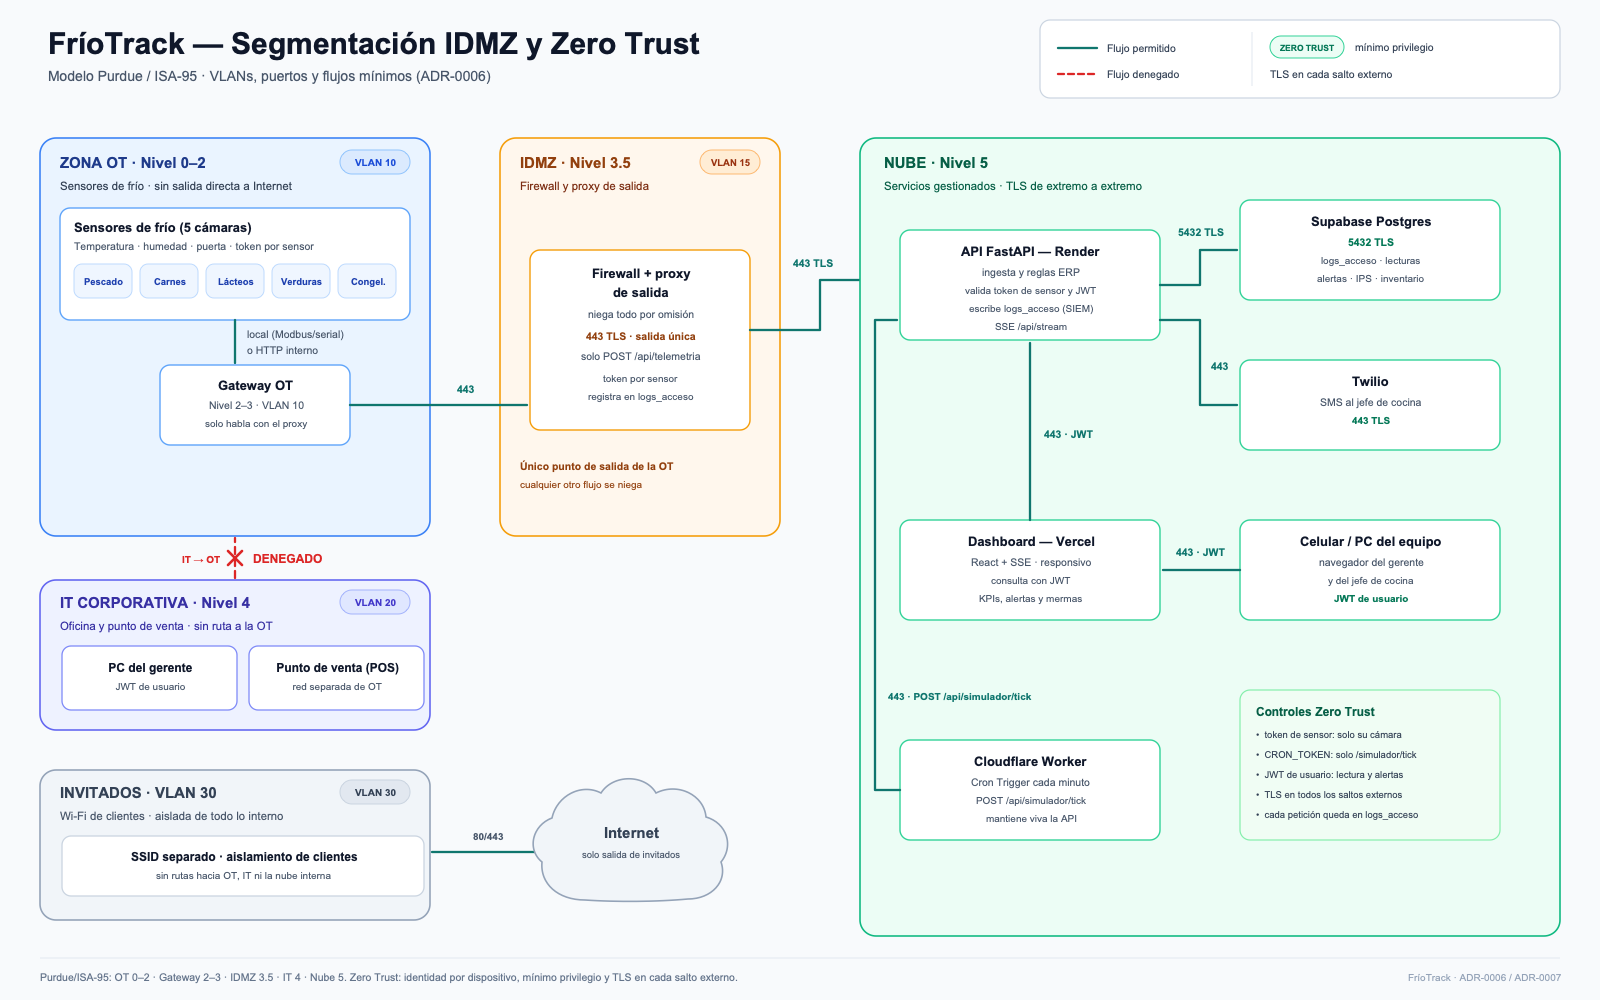
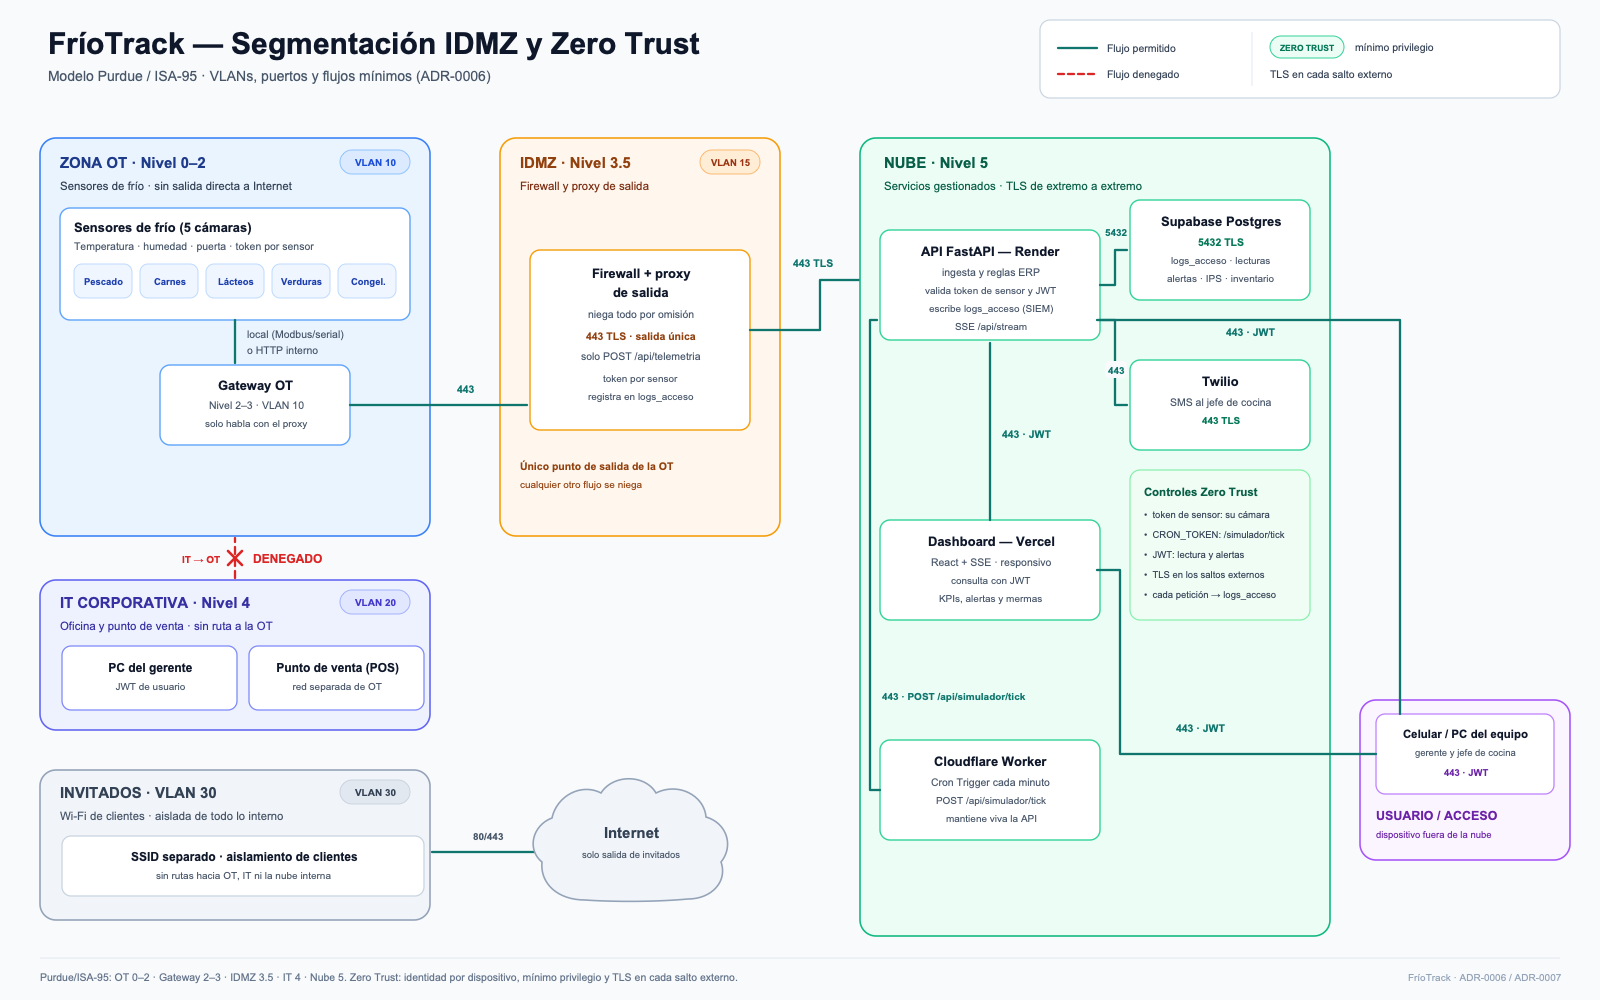
docs(security): ajustar zona de usuario y estado de auth

Changed region(s): [[0.5312, 0.31, 1.0, 0.868], [0.5625, 0.186, 0.9062, 0.465], [0.625, 0.403, 0.6562, 0.465]]

diff --git a/docs/reporte/seguridad.md b/docs/reporte/seguridad.md
@@ -34,9 +34,9 @@ Los flujos permitidos son pocos y explícitos:
 
 Todo lo demás se niega. **IT no puede entrar a OT** (flujo denegado): la PC del gerente y el punto de venta no tienen ruta a los sensores, así que un equipo infectado no llega a la operación. La OT no acepta conexiones entrantes; solo inicia el flujo al gateway y al proxy. Las VLANs microsegmentan y el proxy reduce la salida a un destino y un endpoint.
 
-Controles: token por sensor (solo su cámara), `CRON_TOKEN` (solo `/api/simulador/tick`), JWT (lectura y alertas) y `logs_acceso` con IP, ruta, estado y sujeto; TLS en los saltos externos y firewall que niega por omisión.
+El diseño prevé: token por sensor (solo su cámara), `CRON_TOKEN` (solo `/api/simulador/tick`), JWT (lectura y alertas) y `logs_acceso` con IP, ruta, estado y sujeto; TLS en los saltos externos y firewall que niega por omisión.
 
-En el prototipo las VLANs y el firewall son de diseño; el código implementa tokens, roles, TLS y logs. El diagrama es la referencia para instalar un router con VLANs, la única inversión de red real.
+En el prototipo las VLANs y el firewall son de diseño; el código implementa el token por sensor, el `CRON_TOKEN`, TLS y los logs. El diagrama es la referencia para instalar un router con VLANs, la única inversión de red real.
 
 ![Diagrama IDMZ y Zero Trust](../../security/diagramas/idmz.png)
 
@@ -78,13 +78,13 @@ Con la API local arriba y la base migrada, se lanza el ataque:
 PYTHONPATH=. backend/.venv/bin/python security/ataque.py --intentos 15 --espera 20
 ```
 
-El script manda 15 `POST /api/telemetria` con tokens `token-falso-N`; la API responde `401`. Con `--espera 20` manda una extra para ver el bloqueo. Luego se ejecuta el detector:
+El comando documentado usa `127.0.0.2`; en la prueba local no se creó el alias y se atacó desde la IP LAN `192.168.0.4` contra una segunda instancia, con `--ip-local 192.168.0.4`. El script manda 15 `POST /api/telemetria` con tokens `token-falso-N`; las 15 respuestas fueron `401`. Con `--espera 20` manda una extra para ver el bloqueo. Luego se ejecuta el detector:
 
 ```bash
 PYTHONPATH=. backend/.venv/bin/python -m security.detector --once
 ```
 
-El resultado esperado es una alerta **alta** por fuerza bruta desde `127.0.0.2`, el bloqueo de esa IP durante **60 minutos** y, pasados los 15 segundos de caché del middleware, un **403** para la petición extra. El dashboard en `127.0.0.1` sigue intacto porque está en la lista de IPs de confianza. Antes conviene correr `--dry-run`.
+El resultado **medido** fue: alerta `high` de fuerza bruta desde `192.168.0.4`, bloqueo de esa IP durante **60 minutos** y, pasados los 15 segundos de caché del middleware, **403** para la petición extra. El dashboard en `127.0.0.1` quedó intacto porque está en la lista de IPs de confianza. Antes conviene correr `--dry-run`.
 
 Si no se puede crear el alias (por ejemplo, sin permisos de administrador), la alternativa es levantar una segunda instancia de la API y atacar desde la IP LAN. El detector se apunta a esa base con `--database-url` y se ajusta `--ips-permitidas` para incluir la IP del dashboard y no la del atacante. El flujo es el mismo: 401, alerta, bloqueo y 403.
 
@@ -96,6 +96,6 @@ Las ventanas y umbrales son de prototipo (10 intentos en 5 minutos, 8 °C en 60 
 
 El bloqueo es local: `ips_bloqueadas` lo consulta esta API, no el router ni un WAF; en producción hay que empujarlo al firewall. En la demo depende del alias de loopback; sin él, usar la IP LAN y la segunda instancia.
 
-Las VLANs y la IDMZ son diseño; el prototipo no configura un switch administrado. Lo implementado es tokens, JWT, roles, TLS, logs y respuesta; el diagrama es la referencia para desplegar la red.
+Las VLANs y la IDMZ son diseño; el prototipo no configura un switch administrado. Lo implementado es el token por sensor, el `CRON_TOKEN`, TLS en los saltos externos, los logs de acceso y la respuesta del detector; el JWT de usuario y los roles quedan en la fase de autenticación. El diagrama es la referencia para desplegar la red.
 
 Con esos límites, el módulo evita que una lectura falsa pase desapercibida y permite reaccionar antes de perder producto.
